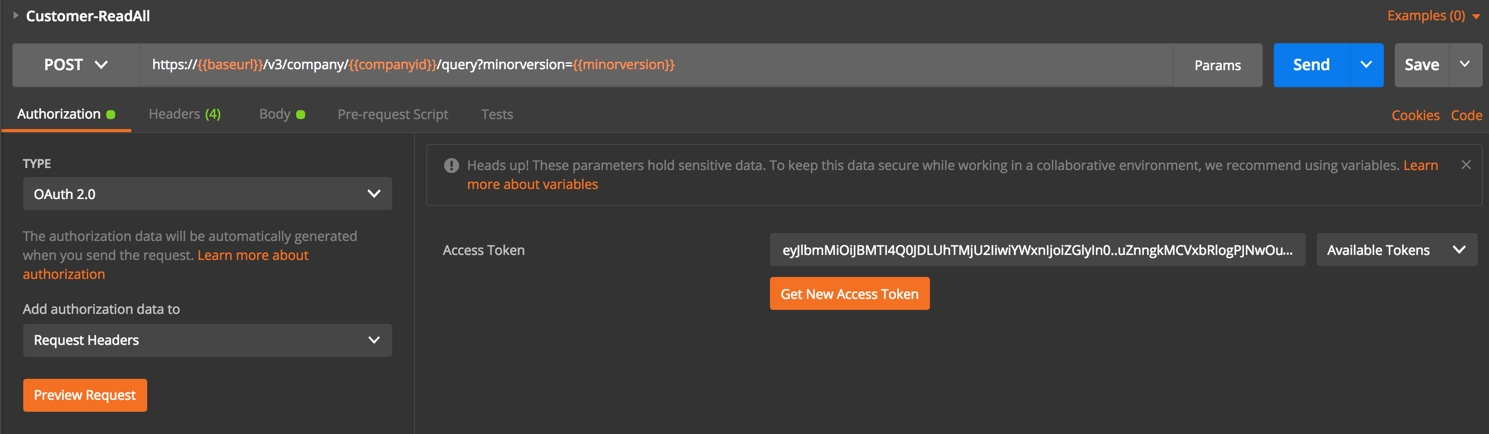
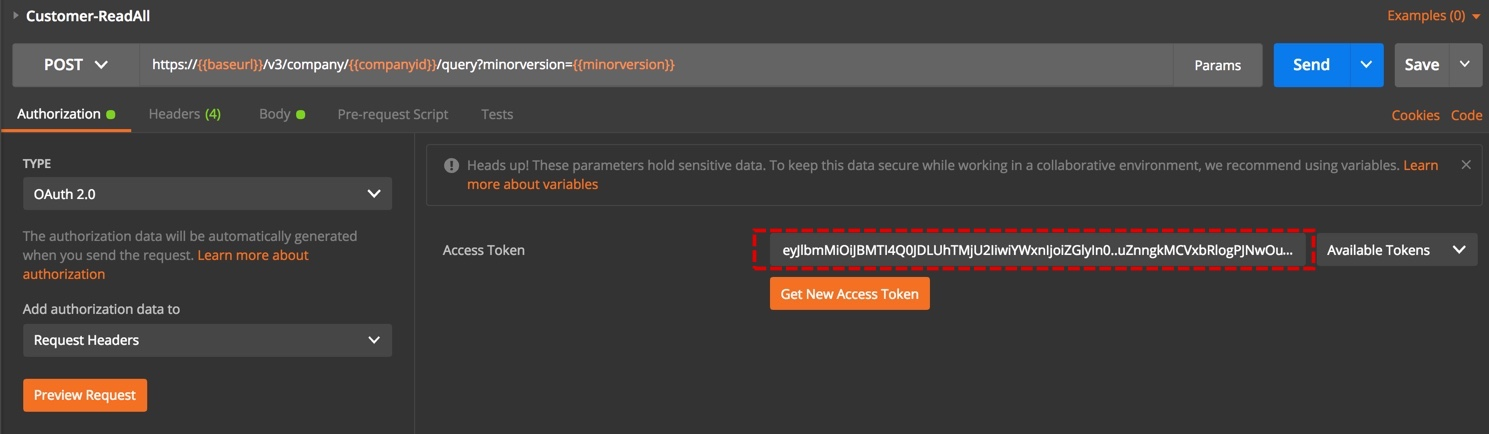
updated readme

Changed region(s): [[0.4943, 0.5092, 0.8959, 0.629]]

diff --git a/smallbizhack-sydney/README.md b/smallbizhack-sydney/README.md
@@ -1,14 +1,18 @@
 # SmallBizHack Sydney
 Welcome to SmallBizHack Sydney 2018! Here you will find useful information and sample code to complete your app. 
 
-* [The challenge](#the-challenge)
-* [APIs at your disposal](#apis-at-your-disposal)
-* [Implementing the QuickBooks API](#implementing-the-quickbooks-api)
+* [1. The challenge](#the-challenge)
+* [2. APIs at your disposal](#apis-at-your-disposal)
+* [3. Intro to the QuickBooks APIs](#intro-to-the-quickbooks-apis)
+* [4. Setting up OAuth 2.0 access](#setting-up-oauth-2.0-access)
+* [5. Hello QuickBooks! Making your first API call](#hello-quickBooks)
+    *  [Using POSTMAN](#postman)
+    *  [Using our sample code](#sample-code)
 
-## The challenge
+# 1. The challenge
 Create a solution that saves a small business time or money
 
-## APIs at your disposal
+# 2. APIs at your disposal
 This hack is all about creating new innovations that help small businesses. We encourage you to use the APIs below _(HINT HINT: there are special prizes for the teams who best utilise these APIs)_, but you're free to use any other APIs and frameworks to bring your app to life. 
 
 * For **QuickBooks API**, you're in the right place. Read on below!
@@ -16,9 +20,7 @@ This hack is all about creating new innovations that help small businesses. We e
 * For **Google cloud API**, head to [cloud.google.com/apis](https://cloud.google.com/apis/)
 * For **PayPal API**, head to [developer.paypal.com](https://developer.paypal.com/)
 
-# Implementing the QuickBooks API
-
-## Intro to the QuickBooks APIs
+# 3. Intro to the QuickBooks APIs
 Every small business needs to track their income, expense and profits, pay employees or lodge tax. They use an accounting application like QuickBooks to automate these painful tasks. QuickBooks is designed as an open ecosystem for small businesses, so YOU can build an app which hooks onto QuickBooks, to solve the myriad of other painpoints associated with running a business. 
 
 Once your app is granted access to their QuickBooks account by a business owner, you can consume a rich set of financial data via the QuickBooks acccounting APIs. You can use this data and the available  APIs to to help them run their business more efficiently. 
@@ -31,7 +33,7 @@ Common tasks performed by the QuickBooks API include:
 
 Check the [API reference](https://developer.intuit.com/docs/api/accounting) for the complete list of APIs. Do also check our app marketplace [apps.com](https://www.apps.com) for example of use cases and apps which use the QuickBooks APIs.
 
-## Setting up OAuth 2.0 access
+## 4. Setting up OAuth 2.0 access
 
 There are available libraries to generate OAuth 2.0 tokens. For simplicty sake here we'll show you how to manually generate the token using our OAuth playground. You can then get to your first succesful API call in minutes by plugging the obtained OAuth 2.0 token in Postman or our sample codes.
 
@@ -70,11 +72,13 @@ Here's a run down of the OAuth response from QuickBooks:
 * `refresh_token`: Required to acquire a short lived `access token`. These last 100 days, but whenever our token endpoint returns a new one for the same company, start using it instead for subsequent calls. If the token is lost, generate a new refresh token by re-authorising your app.
 * `id_token`: JSON web token containing information about the user and company which authorised your app. The token is base 64 encoded. You can head to https://jwt.io/ to decode it and check what is in there.
 
+# 5. Hello QuickBooks! Making your first API call
+
 ## Testing the API with POSTMAN
 
- **NOTE**: The POSTMAN client and collection we've created is  a great way to navigate the API and test the capabilities of QuickBooks before you get your hands deep into into your code. You can skip and directly implement the QuickBook API using the sample code provided for this Hackathon - see TODO link to sample code section 
+ **NOTE**: The POSTMAN client and collection we've created is  a great way to navigate the API and test the capabilities of QuickBooks before you get your hands deep into into your code. You can skip and directly implement the QuickBook API using the sample code provided for this Hackathon - see section [using our sample code](#sample-code) 
 
-**TIP**: There is a handy code generator in POSTMAN which will generate code snippets in most available laguages. ![alt-text](https://github.com/jplemoussu/smallbizhack-sydney/blob/master/Images/postman-code-snippets.jpg "Postman code snippets") 
+**TIP**: There is a handy code generator in POSTMAN which will generate code snippets in most available laguages. ![alt-text](https://github.com/IntuitDeveloper/intuitdeveloper.github.io/blob/master/smallbizhack-sydney/Images/postman-code-snippets.jpg "Postman code snippets") 
 
 1. Download the Postman client [www.getpostman.com](https://www.getpostman.com/)
 
@@ -82,11 +86,14 @@ Here's a run down of the OAuth response from QuickBooks:
 
 3. Plugin your company Id in the postman environment variable.
 
-TODO insert screenshot
+![alt-text](https://github.com/IntuitDeveloper/intuitdeveloper.github.io/blob/master/smallbizhack-sydney/Images/postman-variables.jpg "Postman environment variables") 
 
 **TIP **: Change the `UserAgent` to something unique (your team name) so your requests can be tracked by Intuit Engineers to help debug your code if necessary
 
 4. Now paste the Access Token from the OAuth playground 
+
+![alt-text](https://github.com/IntuitDeveloper/intuitdeveloper.github.io/blob/master/smallbizhack-sydney/Images/postman-update-access-token.jpg "Postman access token") 
+
 
 5. For this example, we are doing a data query using the QuickBooks `query` endpoint against the `customer` entity. Click on the **customer** folder in the Postman explorer panel, and select the **Customer-ReadAll** request.
 
@@ -108,6 +115,9 @@ Samples are available in the following languages, use the readme within the indi
 * [Nodejs](nodejs)
 * [PHP](php)
 * [Python](python)
+
+
+
 
 
 
